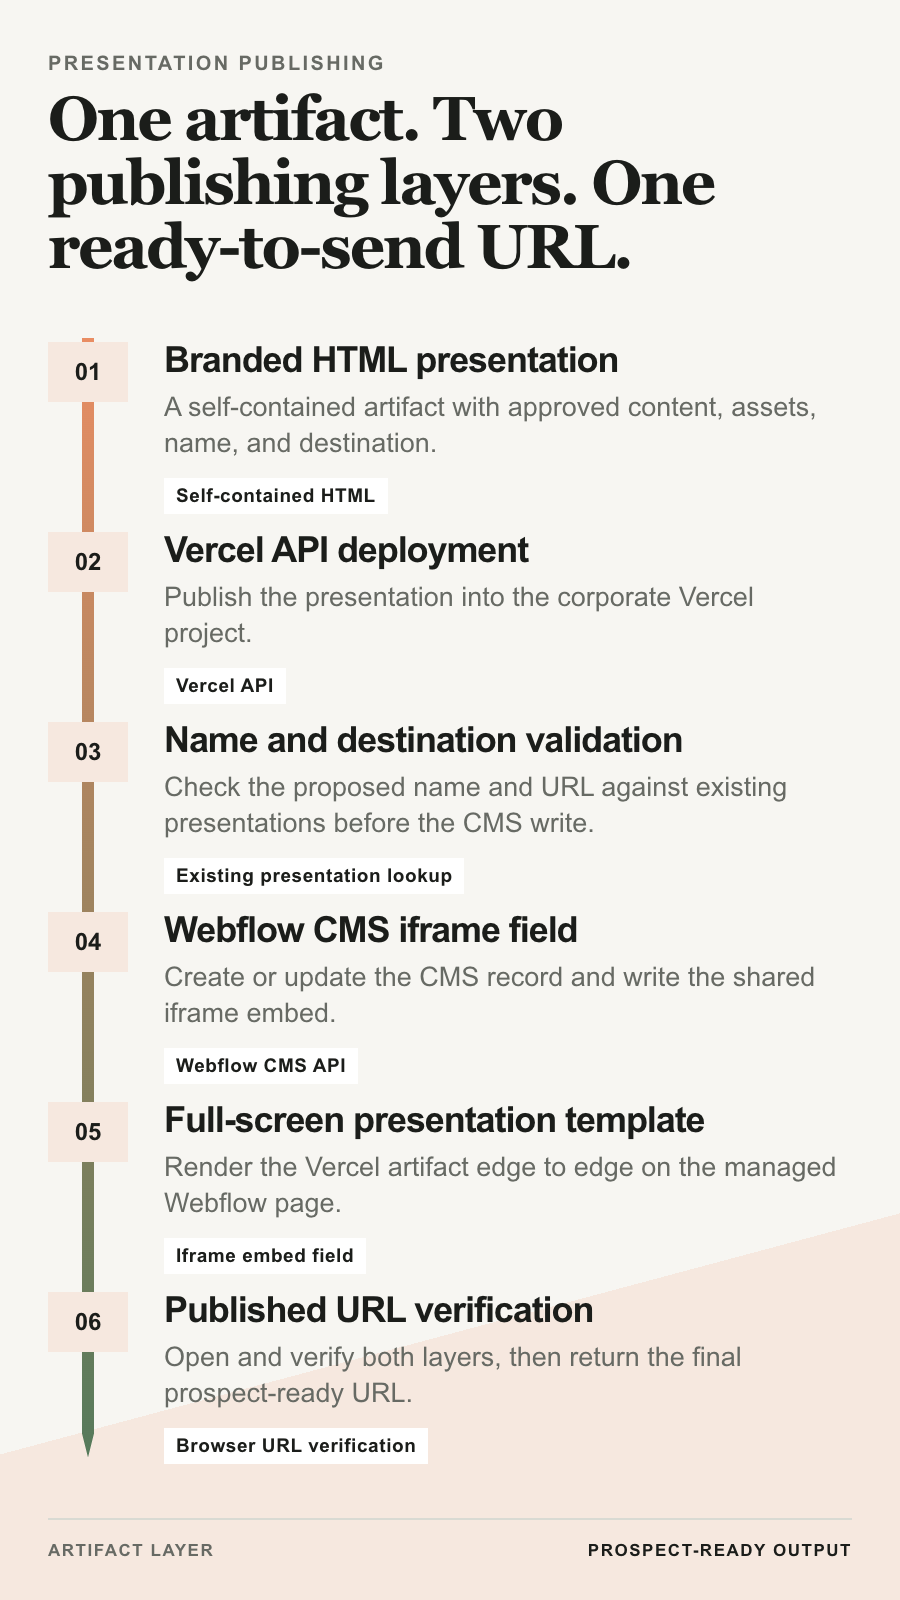
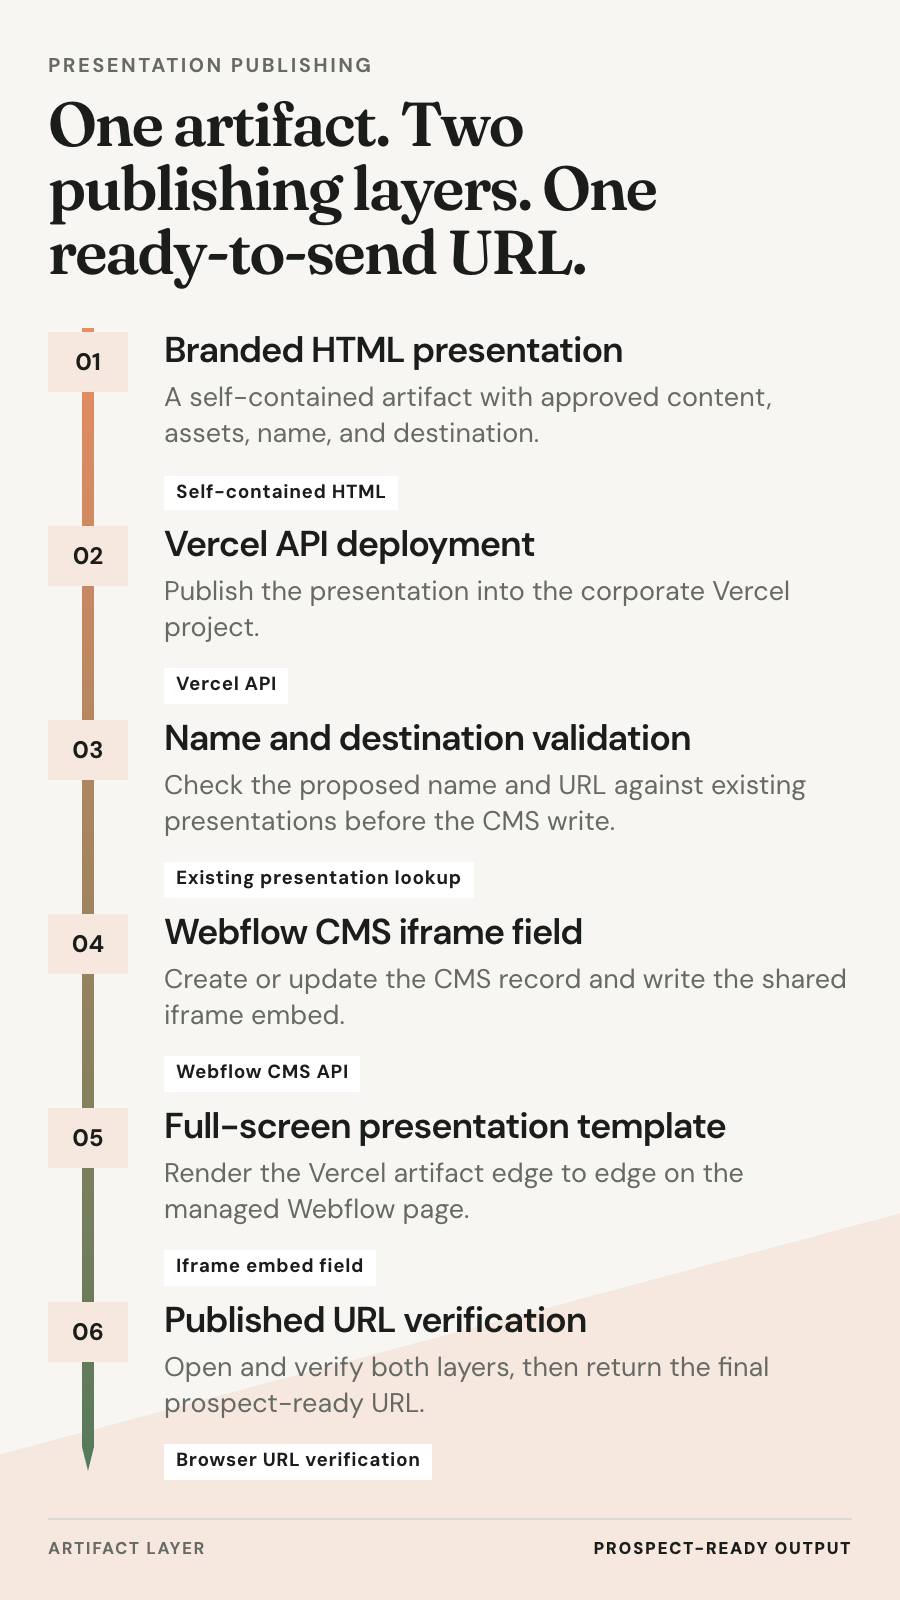
fix: harden V2 publishing assets

diff --git a/v2/styles.css b/v2/styles.css
@@ -1,4 +1,18 @@
-@import url("https://fonts.googleapis.com/css2?family=DM+Sans:wght@400;500;600;700&family=Fraunces:opsz,wght@9..144,600&display=swap");
+@font-face {
+  font-family: "DM Sans";
+  font-style: normal;
+  font-weight: 100 1000;
+  font-display: swap;
+  src: url("assets/fonts/dm-sans-latin-variable.woff2") format("woff2");
+}
+
+@font-face {
+  font-family: "Fraunces";
+  font-style: normal;
+  font-weight: 100 900;
+  font-display: swap;
+  src: url("assets/fonts/fraunces-latin-variable.woff2") format("woff2");
+}
 
 :root {
   --canvas: #F7F6F2;
@@ -9,6 +23,7 @@
   --cobalt: #3F66E8;
   --fern: #557A5B;
   --apricot: #E98D63;
+  --accent-text: #9D3F22;
   --charcoal: #1F2322;
   --content-tint: #E7ECFA;
   --dashboard-tint: #E5EEE7;

diff --git a/v2/artifacts/presentation-publishing.css b/v2/artifacts/presentation-publishing.css
@@ -1,3 +1,19 @@
+@font-face {
+  font-family: "DM Sans";
+  font-style: normal;
+  font-weight: 100 1000;
+  font-display: swap;
+  src: url("../assets/fonts/dm-sans-latin-variable.woff2") format("woff2");
+}
+
+@font-face {
+  font-family: "Fraunces";
+  font-style: normal;
+  font-weight: 100 900;
+  font-display: swap;
+  src: url("../assets/fonts/fraunces-latin-variable.woff2") format("woff2");
+}
+
 :root {
   --canvas: #F7F6F2;
   --surface: #FFFFFF;

diff --git a/v2/workflows/presentation-publishing.css b/v2/workflows/presentation-publishing.css
@@ -116,7 +116,7 @@
 }
 
 .process-list > li > span {
-  color: var(--apricot);
+  color: var(--accent-text);
   font-size: .78rem;
   font-weight: 700;
   font-variant-numeric: tabular-nums;